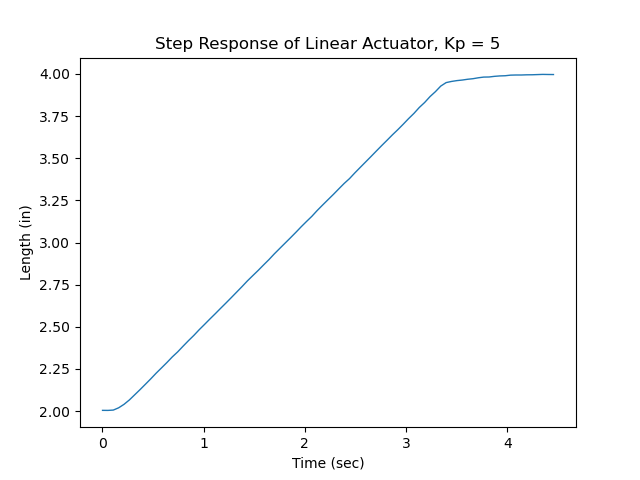
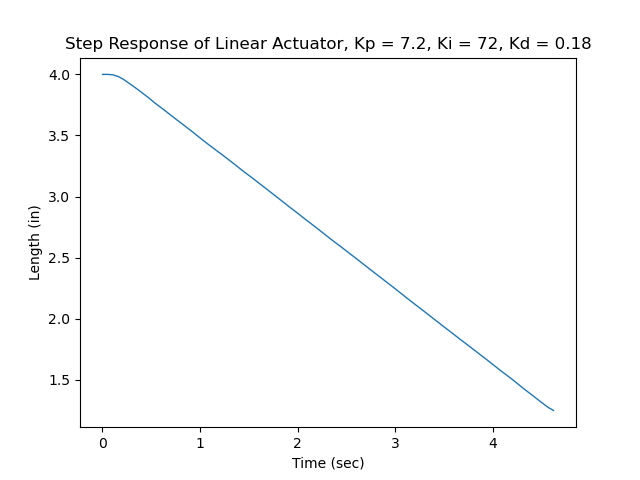
working pid controller

diff --git a/PID4.py b/PID4.py
@@ -1,6 +1,7 @@
 from gpiozero import PWMLED
 import time
 import smbus
+import math
 import matplotlib.pyplot as plt
 
 # Set PWM pins
@@ -85,28 +86,44 @@ def write_pwm(u, pin_e, pin_r):
         pin_r.value = u_s
         
 # Sample Parameters (will be changed before and after tuning)
-Kp = 5
-Ts = 0.1
+# Testing had Ku = 12, with Tu = 0.2
+Kp = 7.2    #0.6*Ku
+Ki = 72		#Kp/0.5*Tu
+Kd = 0.18      #0.125*Kp*Tu
+
+# PID Specific Parameters
+integral = 0
+deriv = 0
+
+Ts = 0.05
 SP = float(input("set point (in): "))
-thresh = 0.01
+thresh = 0.005
 
 lower = SP - thresh
 upper = SP + thresh
 
+e = 0
+e_prev = 0
+
 count = 0
 
 start_time = time.time()
+act_meas = 0
 
-for i in range(400):
+for i in range(200):
+        prev_meas = act_meas
         act_ana, act_voltage, act_meas = read_ads1115(0)
         # This command will be changed to fit with the function definition in adctest.py
+
+        if ((prev_meas > SP) and (act_meas < SP)) or ((prev_meas < SP) and (act_meas > SP)):
+            print("cross time = ", time.time()-start_time)
 
         if act_meas > lower and act_meas < upper:
             count = count + 1
         else:
             count = 0
 
-        if count >= 10:
+        if count >= 20:
             print("breaked")
             break
 
@@ -119,7 +136,13 @@ for i in range(400):
         if SP < offset:
             SP = offset
 
+        e_prev = e		# Added
+
         e = SP - act_meas
+
+        # Added PID Specific Code
+        integral += e * Ts
+        deriv = (e - e_prev) / Ts
 
         data.append(act_meas)
         times.append(time.time() - start_time)
@@ -136,9 +159,17 @@ pin_ret.value = 0
 pin_ext.off()
 pin_ret.off()
 
-plt.title(f"Step Response of Linear Actuator, Kp = {Kp}")
+plt.title(f"Step Response of Linear Actuator, Kp = {Kp}, Ki = {Ki}, Kd = {Kd}")
 plt.ylabel("Length (in)")
 plt.xlabel("Time (sec)")
 plt.plot(times, data, linewidth=1.0)
 plt.savefig("stepresponse.png")
-plt.show()
+
+
+plt.title(f"Step Response of Linear Actuator, Kp = {Kp}, Ki = {Ki}, Kd = {Kd}")
+plt.ylabel("Length (in)")
+plt.xlabel("Time (sec)")
+plt.plot(times, data, linewidth=1.0)
+plt.ylim([SP-0.05, SP+0.05])
+plt.xlim([times[math.floor(len(times)/2)],times[len(times)-1]])
+plt.savefig("stepresponsezoom.png")
